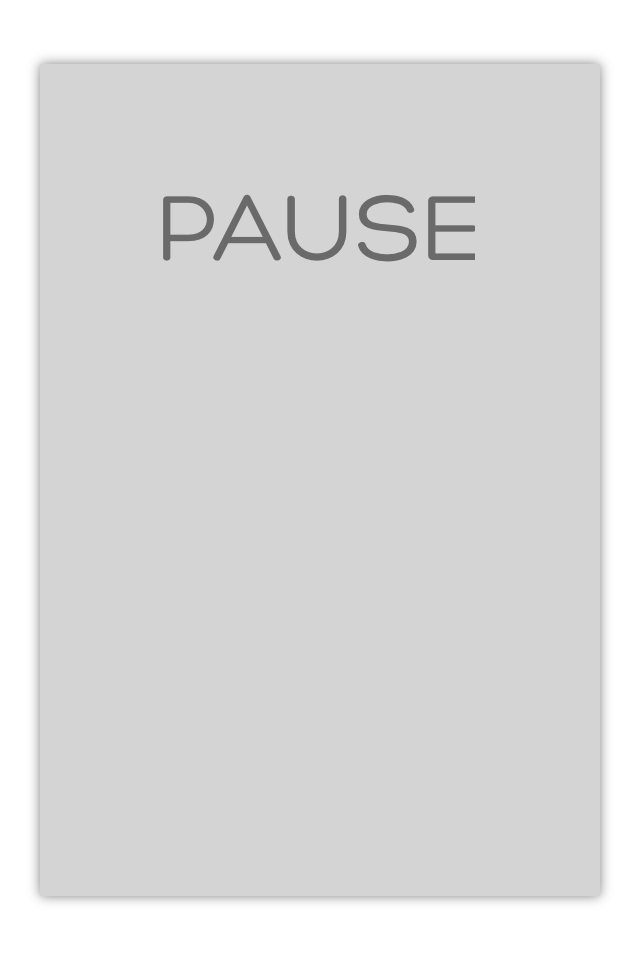
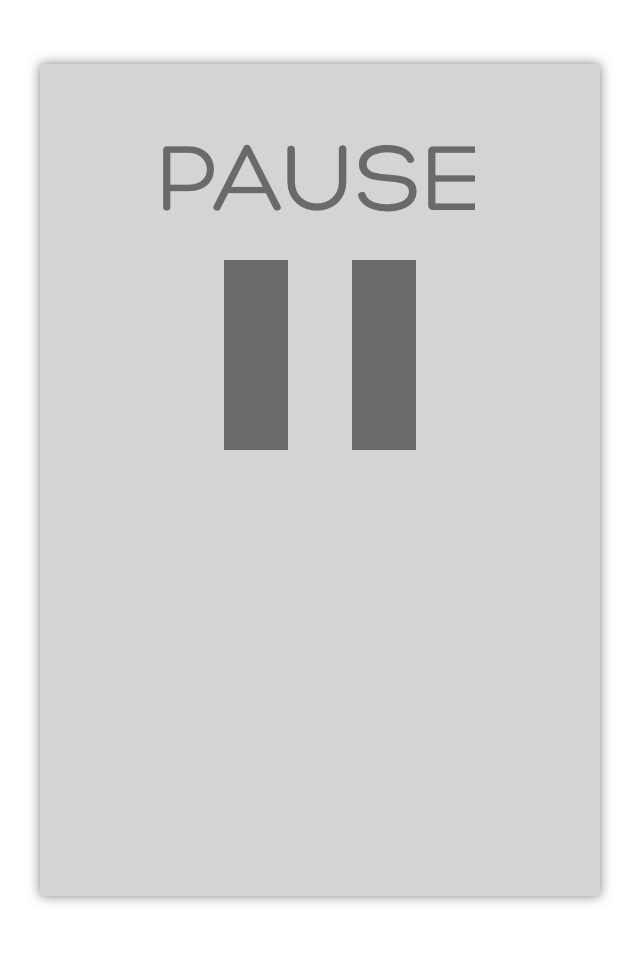
change menu styles

Changed region(s): [[0.25, 0.125, 0.75, 0.4688]]

diff --git a/PauseLayer.m b/PauseLayer.m
@@ -30,7 +30,7 @@
                                        disabledImage: @"PauseMenuResume.png"  
                                        target: self 
                                        selector: @selector(resumeGame)];
-        [resumeButton setPosition: ccp(screenSize.width/2, 250)];
+        [resumeButton setPosition: ccp(screenSize.width/2, 180)];
         
         CCMenuItemImage *mainMenuButton = [CCMenuItemImage 
                                               itemFromNormalImage: @"PauseMenuMainMenu.png" 
@@ -38,8 +38,8 @@
                                               disabledImage: @"PauseMenuMainMenu.png"
                                               target: self 
                                               selector: @selector(goToMainMenu)];
-        [mainMenuButton setPosition: ccp(screenSize.width/2, 125)];
-        
+        [mainMenuButton setPosition: ccp(screenSize.width/2, 75)];
+       
         pauseMenu = [CCMenu menuWithItems: resumeButton, mainMenuButton, nil];
         [pauseMenu setPosition: CGPointZero];
         [self addChild: pauseMenu];

diff --git a/GameOverLayer.m b/GameOverLayer.m
@@ -30,7 +30,7 @@
                                          disabledImage: @"GameOverNewGame.png"  
                                          target: self 
                                          selector: @selector(newGame)];
-        [newGameButton setPosition: ccp(screenSize.width/2, 250)];
+        [newGameButton setPosition: ccp(screenSize.width/2, 180)];
         
         CCMenuItemImage *mainMenuButton = [CCMenuItemImage 
                                            itemFromNormalImage: @"PauseMenuMainMenu.png" 
@@ -38,7 +38,7 @@
                                            disabledImage: @"PauseMenuMainMenu.png"
                                            target: self 
                                            selector: @selector(goToMainMenu)];
-        [mainMenuButton setPosition: ccp(screenSize.width/2, 125)];
+        [mainMenuButton setPosition: ccp(screenSize.width/2, 75)];
         
         menu = [CCMenu menuWithItems: newGameButton, mainMenuButton, nil];
         [menu setPosition: CGPointZero];
